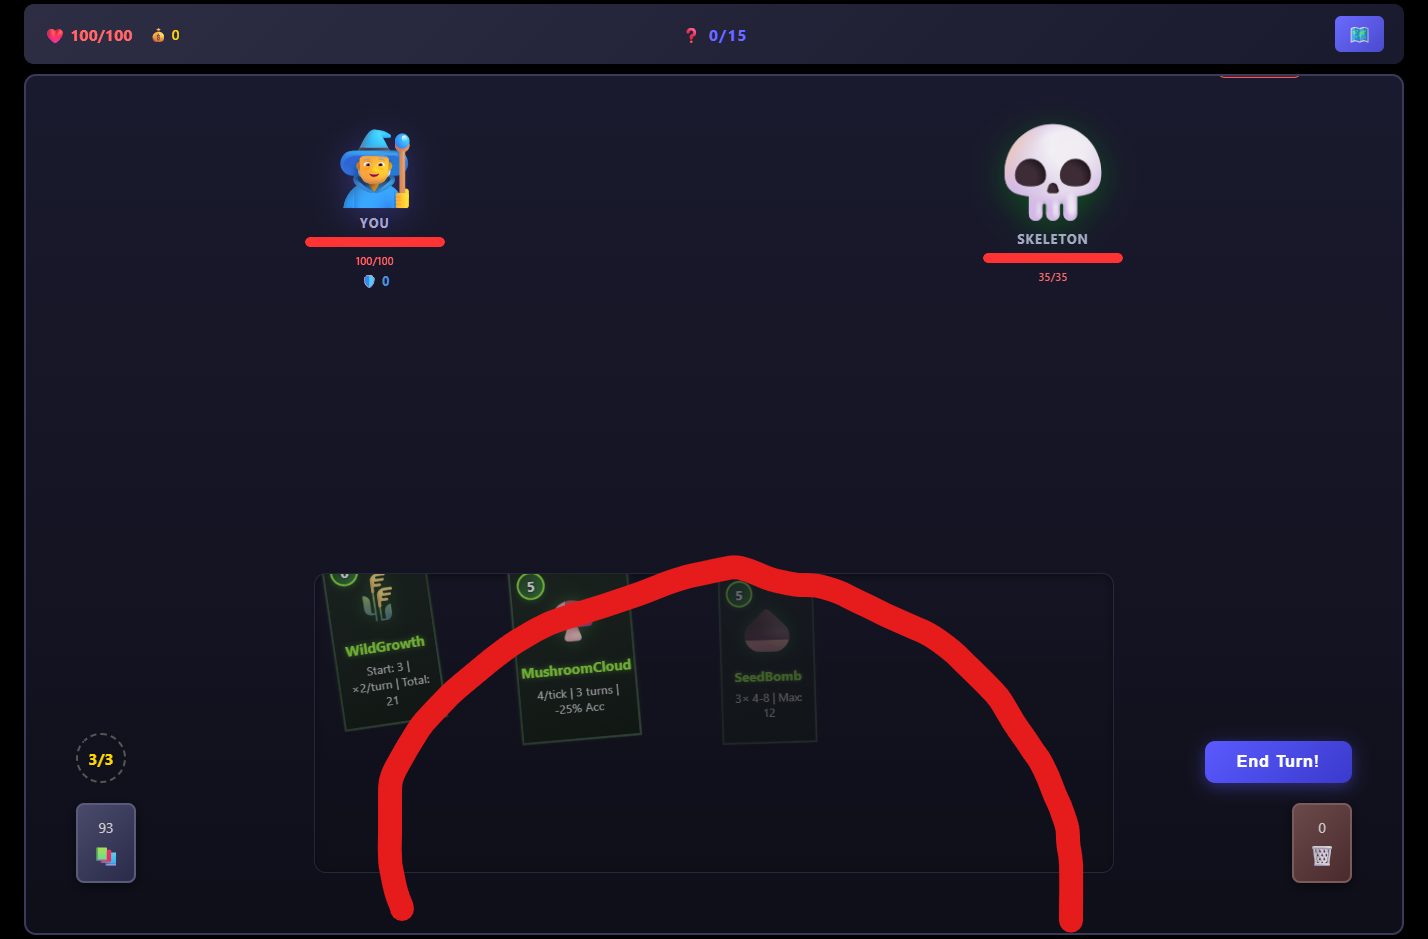
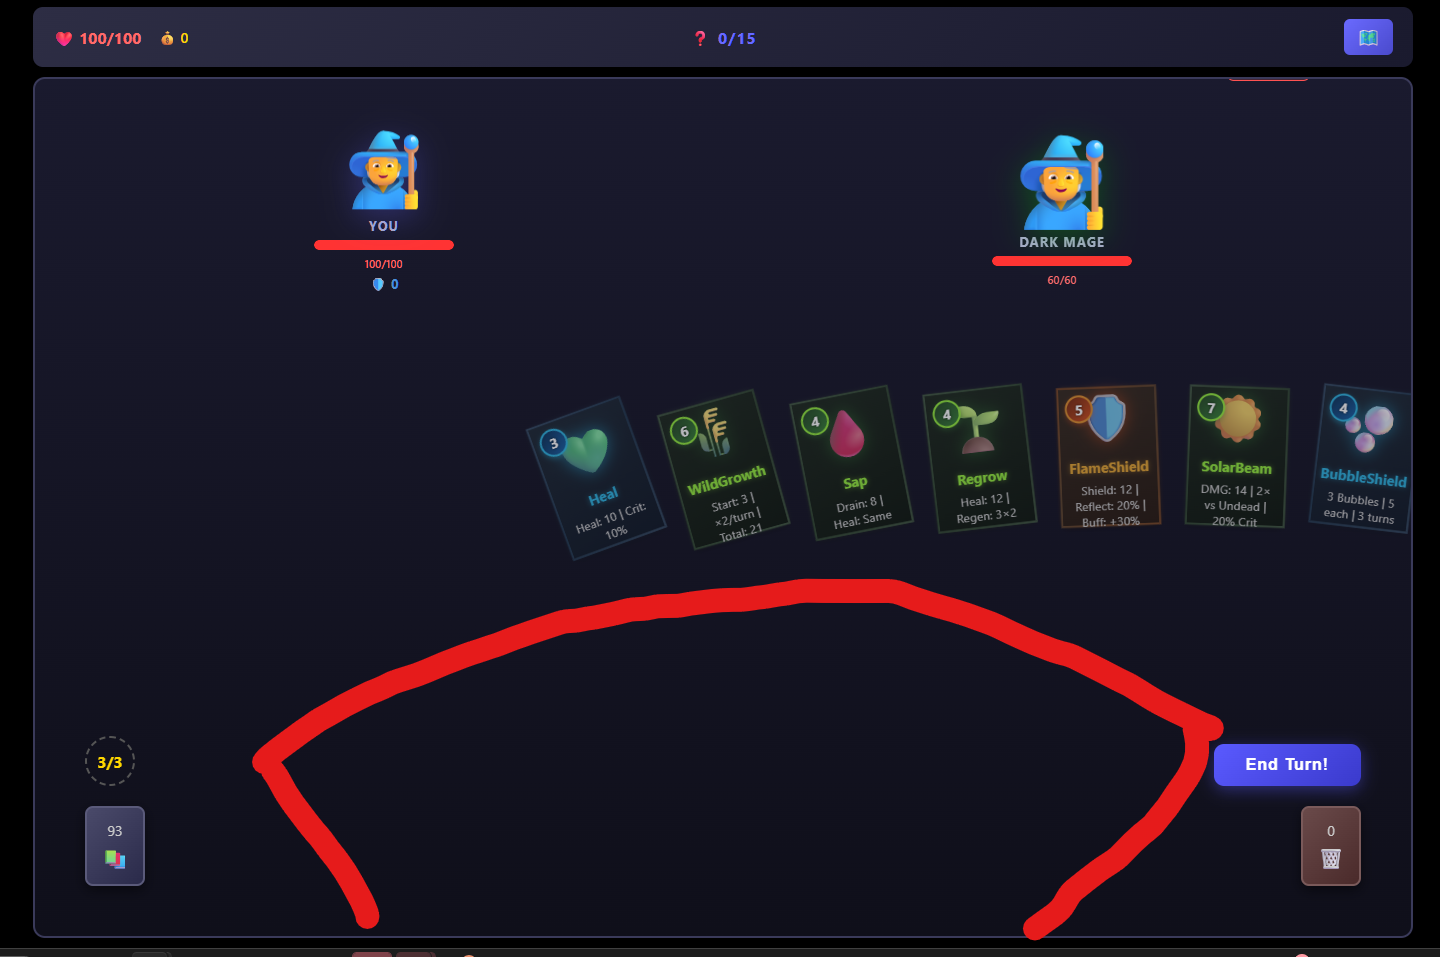
test hand

diff --git a/src/ui/HandLayout.js b/src/ui/HandLayout.js
@@ -36,9 +36,11 @@ export class HandLayout {
         // Calculate center based on container width (responsive)
         const centerX = containerWidth / 2;
         
-        // Position cards so bottom of card arc sits near bottom of container
-        // Cards are 140px tall, we want them to sit with bottoms ~20px from container bottom
-        const centerY = this.cardHeight + 50;  // ~190px - positions arc pivot point
+        // Position the arc pivot point near the BOTTOM of the container
+        // Cards fan UP from this pivot point
+        // Container is ~400px tall, we want card bottoms near the bottom edge
+        const containerHeight = 400;  // Match CSS #hand height
+        const centerY = containerHeight - 80;  // ~320px - pivot point near bottom
 
         // Calculate total angle spread in radians
         const totalRad = (this.arcAngle * Math.PI) / 180;
@@ -52,6 +54,7 @@ export class HandLayout {
             const angle = startAngle + (angleStep * index);
 
             // Basic arc position (sin/cos)
+            // cos(angle) is positive at center, so y = centerY - radius puts cards ABOVE pivot
             const x = centerX + (this.arcRadius * Math.sin(angle));
             const y = centerY - (this.arcRadius * Math.cos(angle));
 

diff --git a/style.css b/style.css
@@ -393,7 +393,7 @@ body {
     right: 120px;           /* End before discard pile (30px margin + 60px pile + 30px gap) */
     bottom: 0;
     min-width: 600px;       /* Minimum width for cards to fit */
-    height: 350px;          /* Height for arc fan + hover room */
+    height: 400px;          /* Height for arc fan + hover room */
     display: block;
     pointer-events: auto;   /* Enable pointer events for card interactions */
 }